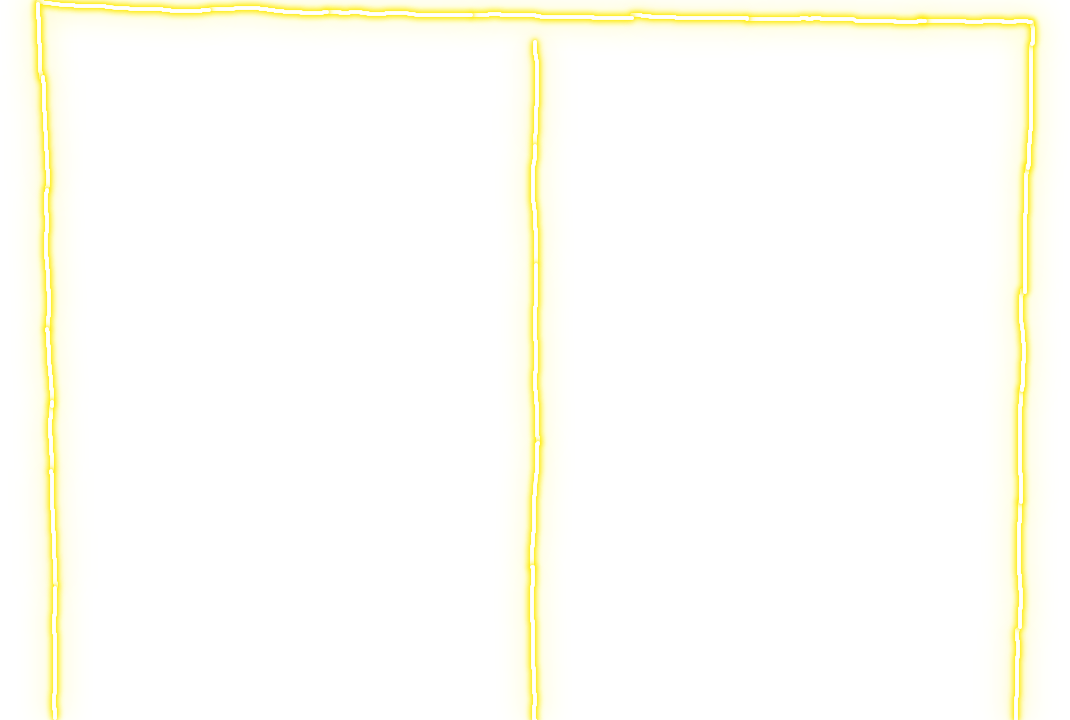
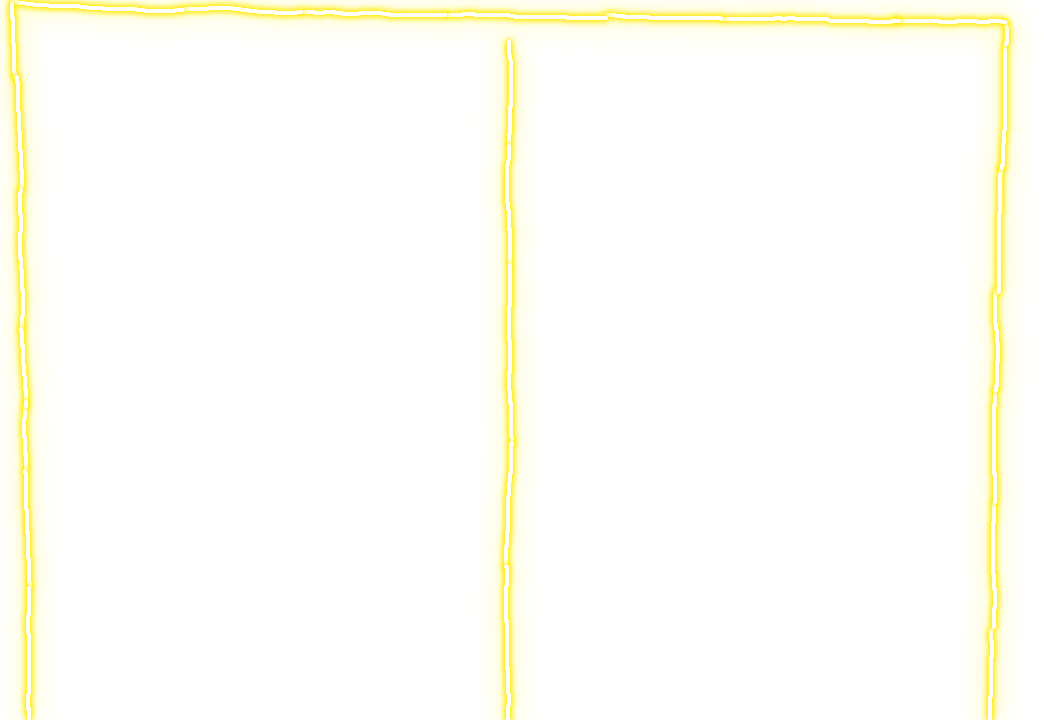
d

diff --git a/GAME/ending.js b/GAME/ending.js
@@ -23,7 +23,7 @@ $(document).ready(function () {
         ending: [
             {
                 arr: "HI",
-                pos: "top:0%;left:2%;width:83vw;heigt:10vh;",
+                pos: "top:0%;left:5%;width:80vw;heigt:10vh;",
                 img: "img/HI.png",
             },
         ],
